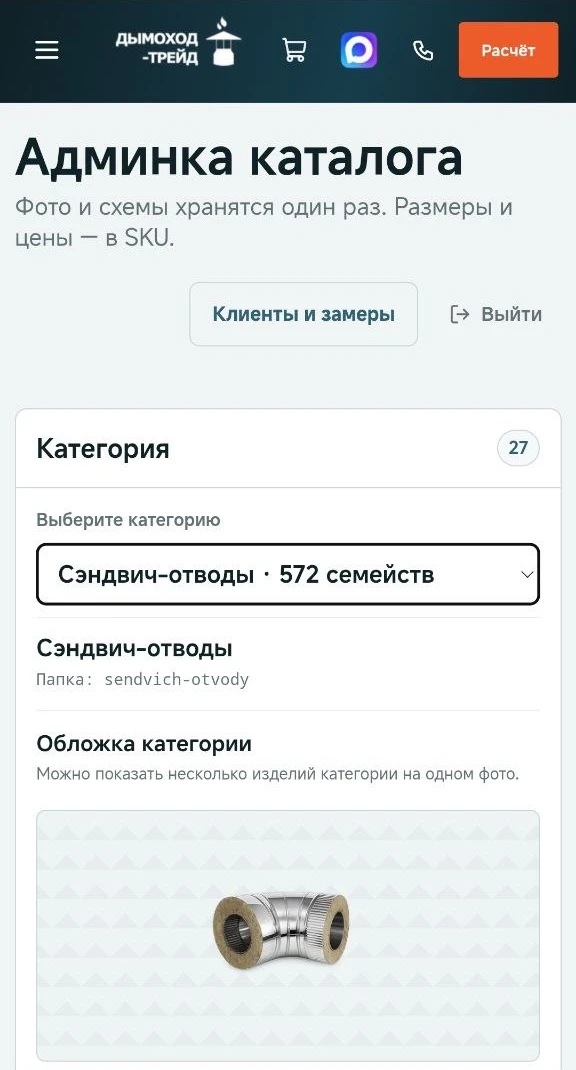
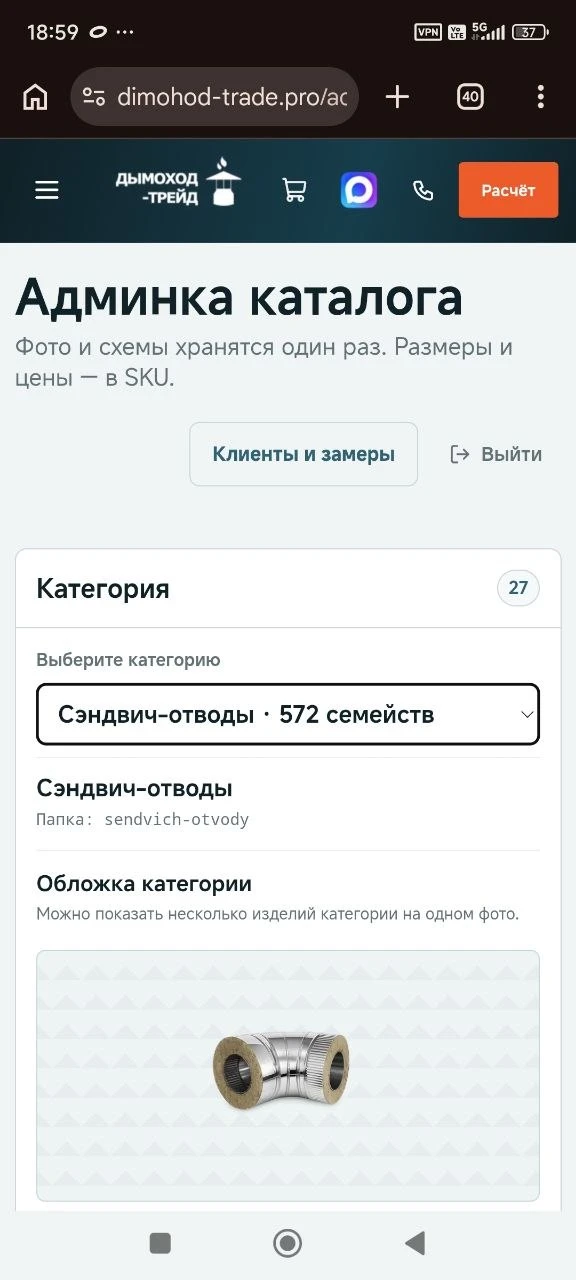
Пользователь отправил в Telegram изображений: 2

diff --git a/components/case-gallery.tsx b/components/case-gallery.tsx
@@ -26,7 +26,7 @@ const readMotionPreference = () => window.matchMedia(reducedQuery).matches;
 const serverMotionPreference = () => true;
 
 export function CaseGallery() {
-  const [device, setDevice] = useState<Device>("desktop");
+  const [device, setDevice] = useState<Device>("mobile");
   const [active, setActive] = useState(0);
   const [full, setFull] = useState<Device | null>(null);
   const gallery = useRef<HTMLElement>(null);
@@ -169,17 +169,17 @@ export function CaseGallery() {
         >
           <button
             type="button"
-            aria-pressed={device === "desktop"}
-            onClick={() => setDevice("desktop")}
-          >
-            Ноутбук
-          </button>
-          <button
-            type="button"
             aria-pressed={device === "mobile"}
             onClick={() => setDevice("mobile")}
           >
             Телефон
+          </button>
+          <button
+            type="button"
+            aria-pressed={device === "desktop"}
+            onClick={() => setDevice("desktop")}
+          >
+            Ноутбук
           </button>
         </div>
         <div
@@ -282,13 +282,7 @@ export function CaseGallery() {
               <Image
                 src={src(full)}
                 width={full === "desktop" ? 975 : 576}
-                height={
-                  full === "desktop"
-                    ? 416
-                    : screen.id === "catalog"
-                      ? 1070
-                      : 1154
-                }
+                height={full === "desktop" ? 416 : 1280}
                 alt={full === "desktop" ? screen.desktopAlt : screen.mobileAlt}
                 unoptimized
               />

diff --git a/lib/case-studies.ts b/lib/case-studies.ts
@@ -73,7 +73,7 @@ const mobileScreen = (
   name: string,
   alt: string,
   caption: string,
-  height = 1154,
+  height = 1280,
 ): CaseImageSource => ({
   src: `${base}/${name}-mobile.webp`,
   width: 576,
@@ -217,7 +217,7 @@ export const caseStudies: Record<string, CaseStudy> = {
             label: "PDF-смета",
             src: `${base}/quote-mobile.webp`,
             width: 576,
-            height: 1154,
+            height: 1280,
             alt: "Реальный PDF на телефоне: позиции, количество и суммы",
             caption:
               "Пример PDF-сметы с перечнем позиций. Стоимость относится к изделиям, не к разработке сайта.",
@@ -247,7 +247,7 @@ export const caseStudies: Record<string, CaseStudy> = {
                 "catalog",
                 "Мобильная админка каталога: категория сэндвич-отводов",
                 "Управление каталогом на телефоне: категория сэндвич-отводов и её обложка.",
-                1070,
+                1280,
               ),
             ),
             label: "Каталог",

diff --git a/docs/CASE_SCREENSHOTS.md b/docs/CASE_SCREENSHOTS.md
@@ -11,7 +11,7 @@
 | PDF-смета | pdf.png             | mobile/pdf_1.jpg           |
 | Каталог   | admin_catalog.png   | mobile/admin_catalog.jpg   |
 
-Файлы отобраны визуально. Удалены только системные панели телефона, адресная строка мобильного браузера и нижняя техническая полоса десктопных снимков; интерфейсы не перерисованы. Десктопные файлы — 975 × 416, мобильные — 576 × 1154 (каталог — 576 × 1070), WebP quality 90. Все 12 файлов суммарно занимают около 508 КиБ.
+Файлы отобраны визуально. Мобильные снимки восстановлены целиком из исходников по просьбе владельца: сохранены статус-бар, браузерные панели, если они присутствуют, и нижняя навигация. Полный размер всех мобильных снимков — 576 × 1280. Десктопные файлы сохраняют прежний размер 975 × 416 и обрезку нижней технической полосы. WebP quality 90; интерфейсы не перерисованы.
 
 Не использовать исходники с клиентами, заявками, именами и телефонами в публичных материалах. В частности, `adminka_client.png`, `admin_1.png`, `mobile/clients_admin.jpg`, `mobile/pdf.jpg` и `mobile/pdf_download.jpg` не включены. Перед добавлением любого нового кадра повторно проверить его содержимое.
 
@@ -53,3 +53,5 @@
 - `catalog-seo-mobile.webp` ← `.codex-telegram/uploads/374897465/screens-1793050093-62910312-02.jpg`: описание, title, meta description, переменные и предпросмотр. Пара к `catalog-seo-desktop.webp` в «SEO и контент».
 
 Исходная папка Telegram остаётся приватной; публикуются только эти проверенные изображения. Десктопные снимки сохранены. Увеличенный просмотр использует соответствующий текущей ширине кадр.
+
+Все мобильные кадры модулей и интерактивной демонстрации теперь полные, без обрезки системных панелей. Шесть первоначальных мобильных WebP повторно получены из исходных файлов таблицы выше, без resize/extract. Размеры в данных кейса и увеличенном просмотре обновлены до 576 × 1280. Последние два мобильных снимка редакторов и кадр FAQ уже имели этот размер и не менялись.
